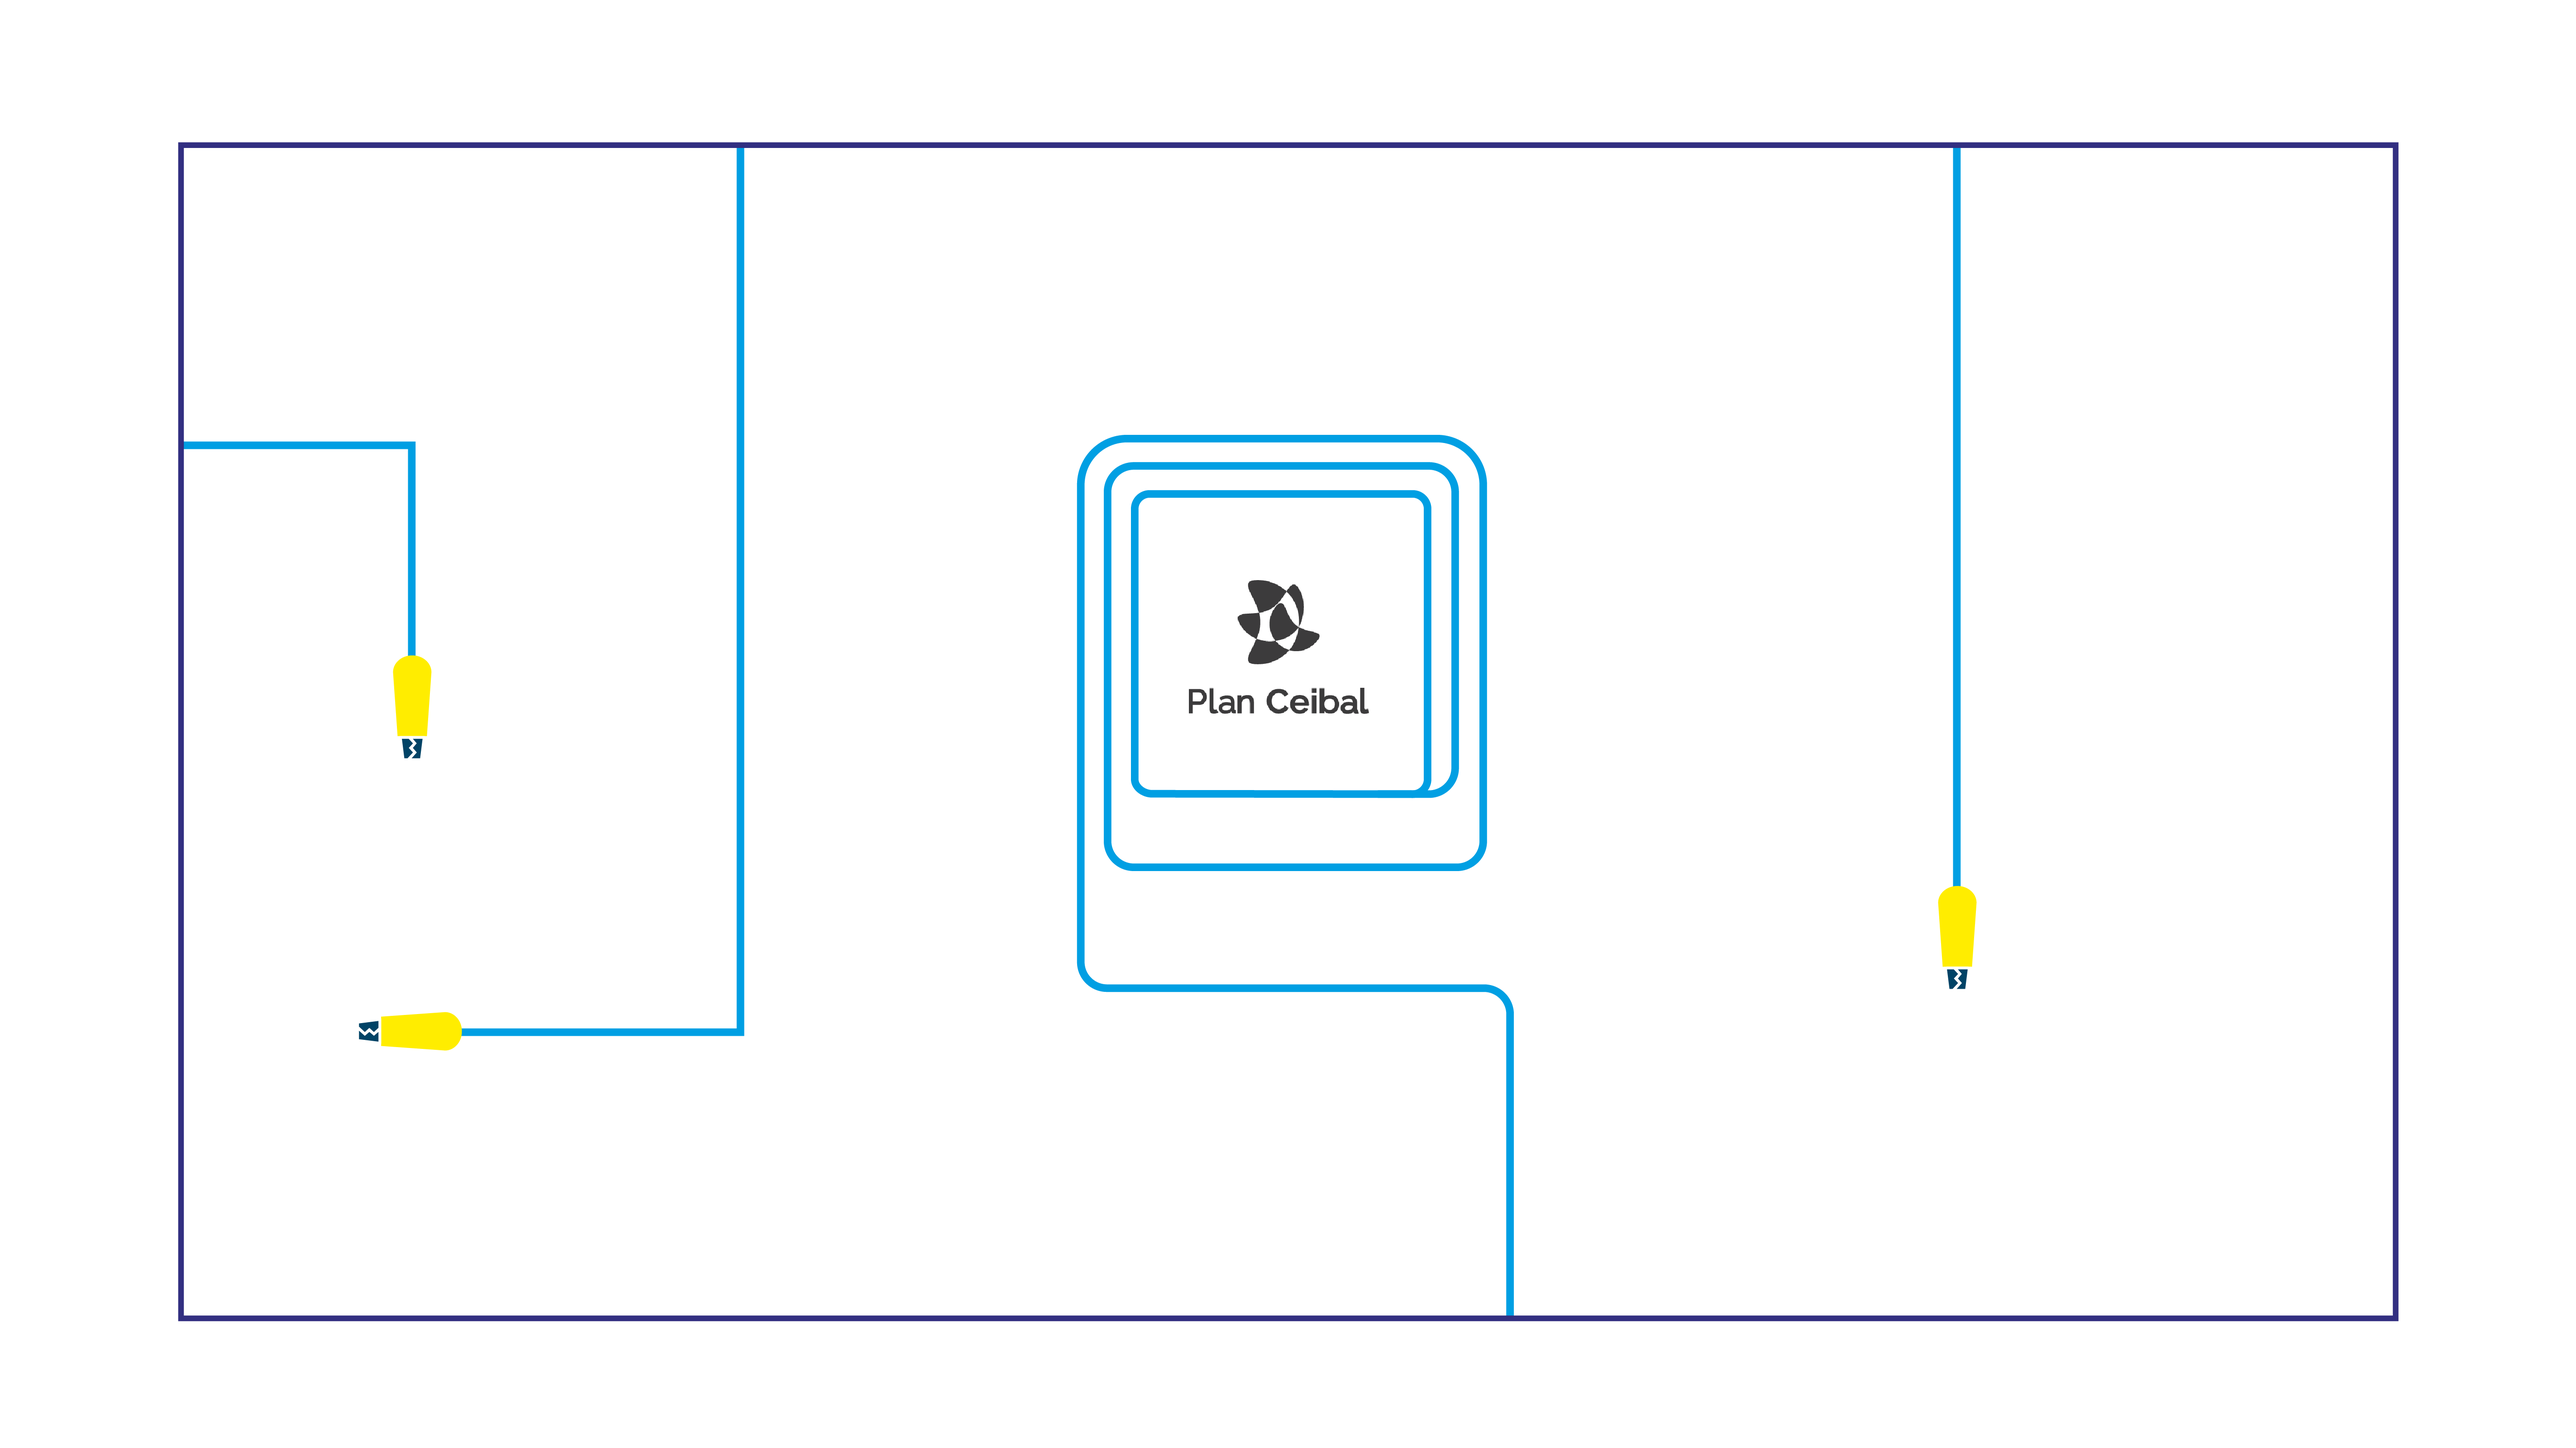
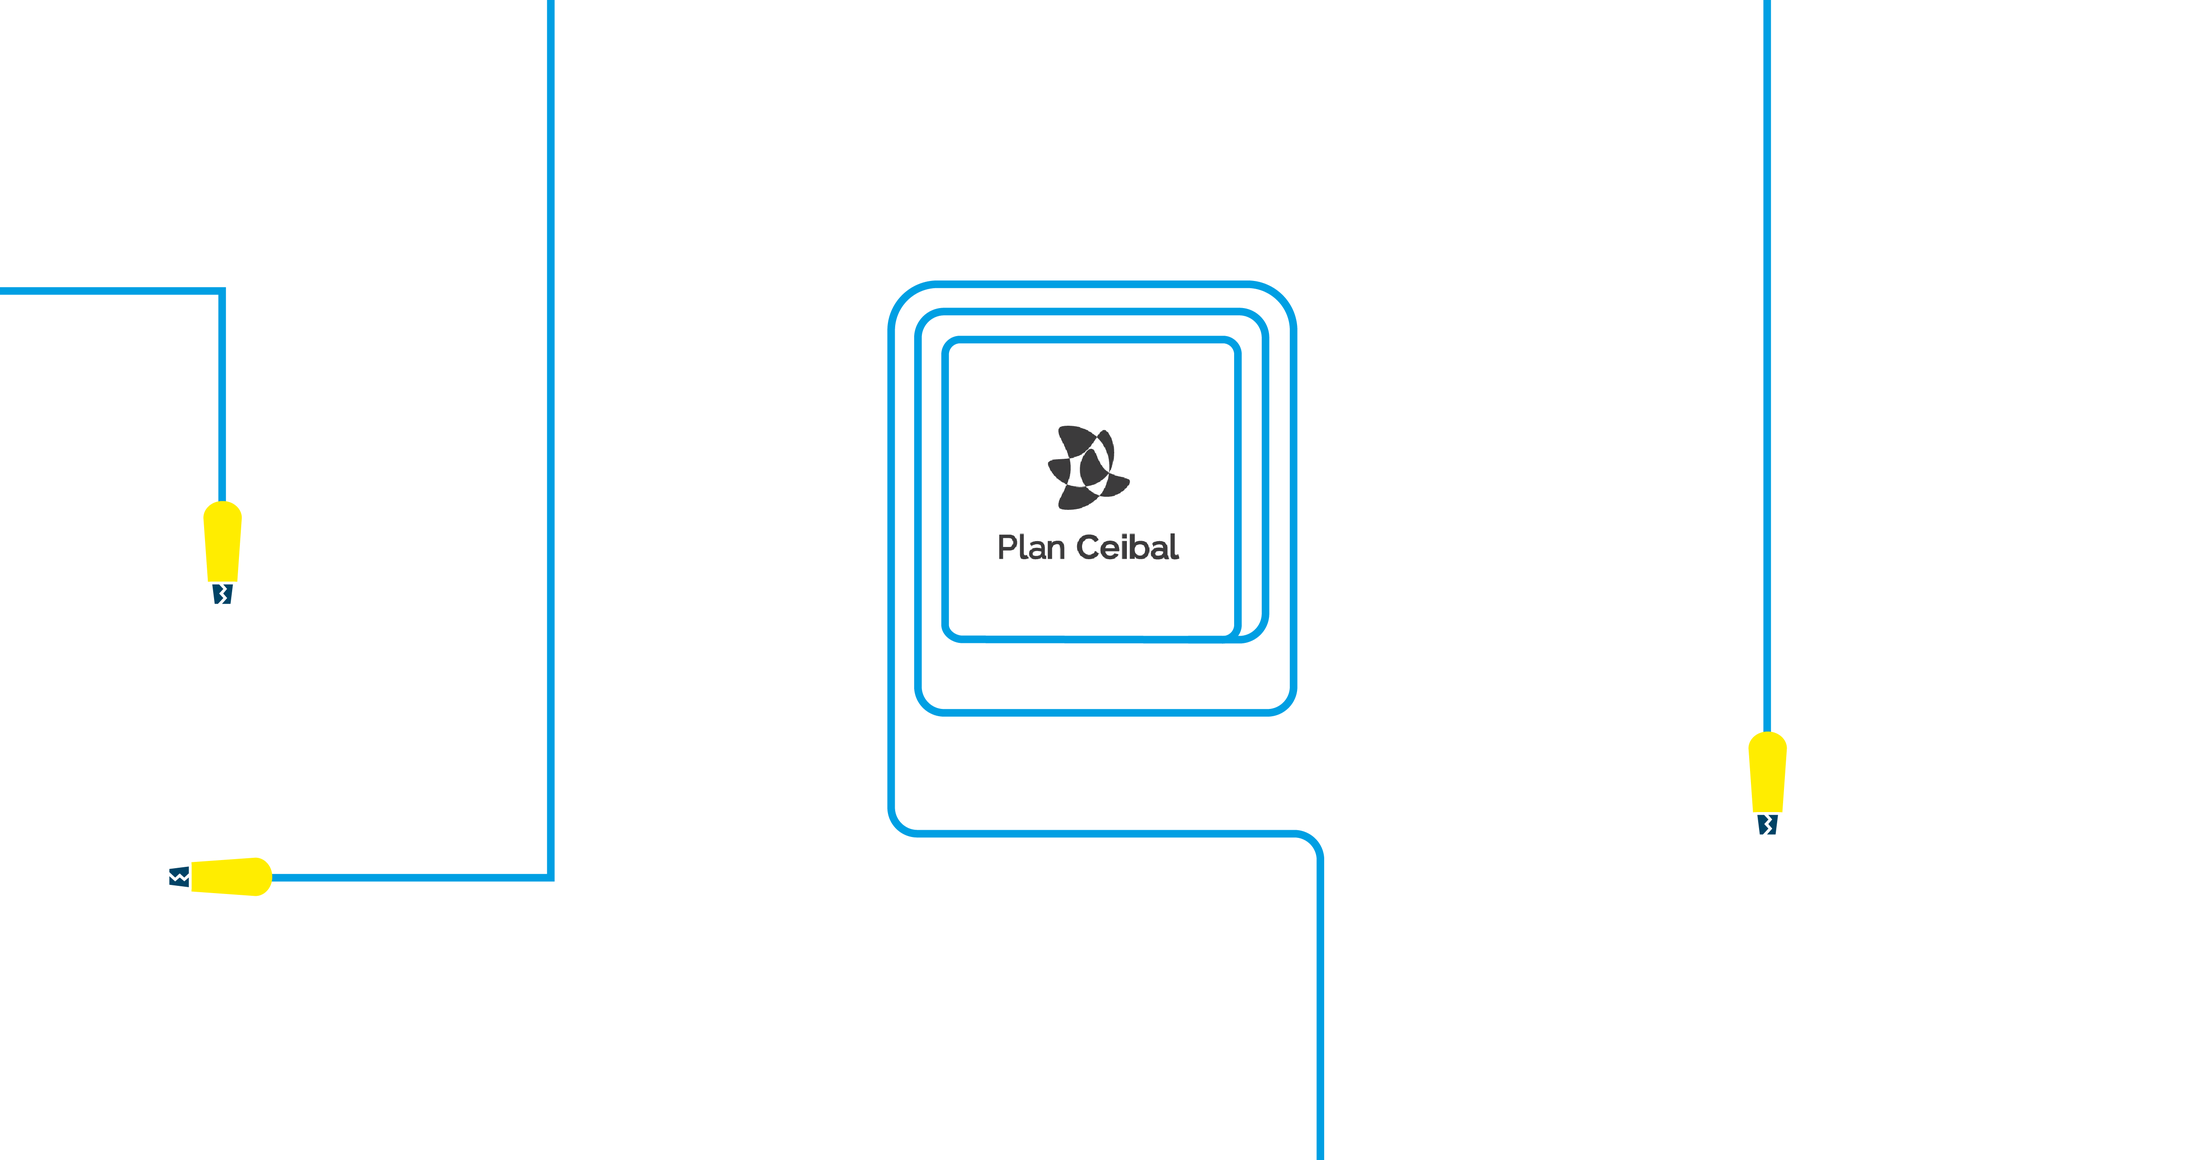
1

diff --git a/dibujando_version2/dibujando_microbit_Ceibal.html b/dibujando_version2/dibujando_microbit_Ceibal.html
@@ -92,7 +92,7 @@
 
 			}
 			
-			relleno(canvasWidth, canvasHeight);
+			//relleno(canvasWidth, canvasHeight);
 
 			ctx.drawImage(img, 0,0, canvasWidth, canvasHeight);
 			
@@ -206,7 +206,7 @@
 			
 			document.getElementById("clear").onclick = async () => {
 				ctx.clearRect(0, 0, canvas.width, canvas.height);
-				relleno(canvasWidth, canvasHeight);
+				//relleno(canvasWidth, canvasHeight);
 				X = 0;
 				Y = 0;
 				toco = 0;
